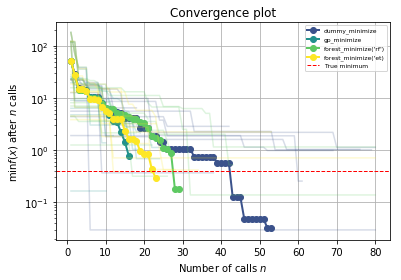
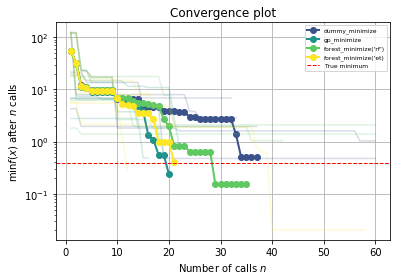
Pushing the docs for revision for branch: master, commit df2194d16e92cd6cf822e9dc0583588505914403

diff --git a/notebooks/bayesian-optimization.html b/notebooks/bayesian-optimization.html
@@ -1275,13 +1275,13 @@ controlling the exploration-exploitation trade-off.
              n_restarts_optimizer=2, noise=0.010000000000000002,
              normalize_y=True, optimizer=&#39;fmin_l_bfgs_b&#39;,
              random_state=843828734)]
- random_state: &lt;mtrand.RandomState object at 0x7f1b10999af8&gt;
+ random_state: &lt;mtrand.RandomState object at 0x7f3856f71ab0&gt;
         space: Space([Real(low=-2.0, high=2.0, prior=uniform, transform=normalize)])
-        specs: {&#39;args&#39;: {&#39;n_jobs&#39;: 1, &#39;kappa&#39;: 1.96, &#39;xi&#39;: 0.01, &#39;n_restarts_optimizer&#39;: 5, &#39;n_points&#39;: 10000, &#39;callback&#39;: None, &#39;verbose&#39;: False, &#39;random_state&#39;: &lt;mtrand.RandomState object at 0x7f1b10999af8&gt;, &#39;y0&#39;: None, &#39;x0&#39;: None, &#39;acq_optimizer&#39;: &#39;auto&#39;, &#39;acq_func&#39;: &#39;EI&#39;, &#39;n_random_starts&#39;: 5, &#39;n_calls&#39;: 15, &#39;base_estimator&#39;: GaussianProcessRegressor(alpha=1e-10, copy_X_train=True,
+        specs: {&#39;args&#39;: {&#39;n_jobs&#39;: 1, &#39;kappa&#39;: 1.96, &#39;xi&#39;: 0.01, &#39;n_restarts_optimizer&#39;: 5, &#39;n_points&#39;: 10000, &#39;callback&#39;: None, &#39;verbose&#39;: False, &#39;random_state&#39;: &lt;mtrand.RandomState object at 0x7f3856f71ab0&gt;, &#39;y0&#39;: None, &#39;x0&#39;: None, &#39;acq_optimizer&#39;: &#39;auto&#39;, &#39;acq_func&#39;: &#39;EI&#39;, &#39;n_random_starts&#39;: 5, &#39;n_calls&#39;: 15, &#39;base_estimator&#39;: GaussianProcessRegressor(alpha=1e-10, copy_X_train=True,
              kernel=1**2 * Matern(length_scale=1, nu=2.5),
              n_restarts_optimizer=2, noise=0.010000000000000002,
              normalize_y=True, optimizer=&#39;fmin_l_bfgs_b&#39;,
-             random_state=843828734), &#39;dimensions&#39;: Space([Real(low=-2.0, high=2.0, prior=uniform, transform=normalize)]), &#39;func&#39;: &lt;function f at 0x7f1b1d778ea0&gt;}, &#39;function&#39;: &#39;base_minimize&#39;}
+             random_state=843828734), &#39;dimensions&#39;: Space([Real(low=-2.0, high=2.0, prior=uniform, transform=normalize)]), &#39;func&#39;: &lt;function f at 0x7f3863d50ea0&gt;}, &#39;function&#39;: &#39;base_minimize&#39;}
             x: [-0.2572822321543613]
       x_iters: [[0.85182128209290919], [-0.28611629525269677], [0.76353942010744724], [0.87660124061909261], [-0.035524266269610472], [-0.30626086081540094], [-0.2572822321543613], [-0.22378966562926261], [1.0553495096977938], [-0.25562401679960356], [-0.52442654243976894], [-1.9992867763849413], [1.999866281741757], [-1.2339044799440428], [0.45960222721663557]]
 </pre></div>

diff --git a/notebooks/strategy-comparison.html b/notebooks/strategy-comparison.html
@@ -1130,7 +1130,7 @@ table {
 </pre></div>
 
 
-<div class="codehilite"><pre><span></span>&lt;matplotlib.figure.Figure at 0x7fdd477be668&gt;
+<div class="codehilite"><pre><span></span>&lt;matplotlib.figure.Figure at 0x7f5628627400&gt;
 </pre></div>
 
 
@@ -1199,11 +1199,11 @@ models. This makes the comparison more robust against models that get
 
 <span class="n">func</span> <span class="o">=</span> <span class="n">partial</span><span class="p">(</span><span class="n">branin</span><span class="p">,</span> <span class="n">noise_level</span><span class="o">=</span><span class="mf">2.0</span><span class="p">)</span>
 <span class="n">bounds</span> <span class="o">=</span> <span class="p">[(</span><span class="o">-</span><span class="mf">5.0</span><span class="p">,</span> <span class="mf">10.0</span><span class="p">),</span> <span class="p">(</span><span class="mf">0.0</span><span class="p">,</span> <span class="mf">15.0</span><span class="p">)]</span>
-<span class="n">n_calls</span> <span class="o">=</span> <span class="mi">80</span>
+<span class="n">n_calls</span> <span class="o">=</span> <span class="mi">60</span>
 </pre></div>
 
 
-<div class="codehilite"><pre><span></span><span class="k">def</span> <span class="nf">run</span><span class="p">(</span><span class="n">minimizer</span><span class="p">,</span> <span class="n">n_iter</span><span class="o">=</span><span class="mi">10</span><span class="p">):</span>
+<div class="codehilite"><pre><span></span><span class="k">def</span> <span class="nf">run</span><span class="p">(</span><span class="n">minimizer</span><span class="p">,</span> <span class="n">n_iter</span><span class="o">=</span><span class="mi">5</span><span class="p">):</span>
     <span class="k">return</span> <span class="p">[</span><span class="n">minimizer</span><span class="p">(</span><span class="n">func</span><span class="p">,</span> <span class="n">bounds</span><span class="p">,</span> <span class="n">n_calls</span><span class="o">=</span><span class="n">n_calls</span><span class="p">,</span> <span class="n">random_state</span><span class="o">=</span><span class="n">n</span><span class="p">)</span> 
             <span class="k">for</span> <span class="n">n</span> <span class="ow">in</span> <span class="nb">range</span><span class="p">(</span><span class="n">n_iter</span><span class="p">)]</span>
 

diff --git a/notebooks/sklearn-gridsearchcv-replacement.html b/notebooks/sklearn-gridsearchcv-replacement.html
@@ -1159,8 +1159,8 @@ table {
   FutureWarning)
 
 
-val. score: 0.988121752042
-test score: 0.988888888889
+val. score: 0.98292501856
+test score: 0.982222222222
 </pre></div>
 
 
@@ -1217,11 +1217,9 @@ test score: 0.988888888889
 
 <div class="codehilite"><pre><span></span>/home/ubuntu/miniconda3/envs/testenv/lib/python3.6/site-packages/sklearn/model_selection/_split.py:2026: FutureWarning: From version 0.21, test_size will always complement train_size unless both are specified.
   FutureWarning)
-/home/ubuntu/scikit-optimize/skopt/optimizer/optimizer.py:368: UserWarning: The objective has been evaluated at this point before.
-  warnings.warn(&quot;The objective has been evaluated &quot;
 
 
-val. score: 0.98292501856
+val. score: 0.985894580549
 test score: 0.982222222222
 </pre></div>
 
@@ -1263,18 +1261,18 @@ test score: 0.982222222222
 
 0 0.0844444444444
 1 0.0844444444444
-2 0.0844444444444
-3 0.0844444444444
-4 0.671111111111
-5 0.975555555556
-6 0.975555555556
-7 0.975555555556
+2 0.98
+3 0.98
+4 0.98
+5 0.98
+6 0.98
+7 0.98
 8 0.975555555556
 9 0.975555555556
-10 0.98
-11 0.98
-12 0.986666666667
-13 0.986666666667
+10 0.975555555556
+11 0.975555555556
+12 0.993333333333
+13 0.993333333333
 14 0.993333333333
 15 0.993333333333
 </pre></div>

diff --git a/notebooks/ask-and-tell.html b/notebooks/ask-and-tell.html
@@ -1130,7 +1130,7 @@ table {
 </pre></div>
 
 
-<div class="codehilite"><pre><span></span>&lt;matplotlib.figure.Figure at 0x7fd67469d7f0&gt;
+<div class="codehilite"><pre><span></span>&lt;matplotlib.figure.Figure at 0x7f8c08a6d748&gt;
 </pre></div>
 
 
@@ -1208,7 +1208,7 @@ optimizer:</p>
 <div class="codehilite"><pre><span></span>          fun: -0.032758350111535384
     func_vals: array([-0.03275835])
        models: []
- random_state: &lt;mtrand.RandomState object at 0x7fd66c13dc60&gt;
+ random_state: &lt;mtrand.RandomState object at 0x7f8c08154c18&gt;
         space: Space([Real(low=-2.0, high=2.0, prior=uniform, transform=identity)])
         specs: None
             x: [-1.7121321838148869]

diff --git a/notebooks/visualizing-results.html b/notebooks/visualizing-results.html
@@ -1130,7 +1130,7 @@ table {
 </pre></div>
 
 
-<div class="codehilite"><pre><span></span>&lt;matplotlib.figure.Figure at 0x7fc2c46127b8&gt;
+<div class="codehilite"><pre><span></span>&lt;matplotlib.figure.Figure at 0x7fa7084bc7b8&gt;
 </pre></div>
 
 

diff --git a/notebooks/bayesian-optimization.md b/notebooks/bayesian-optimization.md
@@ -176,13 +176,13 @@ print(res)
                  n_restarts_optimizer=2, noise=0.010000000000000002,
                  normalize_y=True, optimizer='fmin_l_bfgs_b',
                  random_state=843828734)]
-     random_state: <mtrand.RandomState object at 0x7f1b10999af8>
+     random_state: <mtrand.RandomState object at 0x7f3856f71ab0>
             space: Space([Real(low=-2.0, high=2.0, prior=uniform, transform=normalize)])
-            specs: {'args': {'n_jobs': 1, 'kappa': 1.96, 'xi': 0.01, 'n_restarts_optimizer': 5, 'n_points': 10000, 'callback': None, 'verbose': False, 'random_state': <mtrand.RandomState object at 0x7f1b10999af8>, 'y0': None, 'x0': None, 'acq_optimizer': 'auto', 'acq_func': 'EI', 'n_random_starts': 5, 'n_calls': 15, 'base_estimator': GaussianProcessRegressor(alpha=1e-10, copy_X_train=True,
+            specs: {'args': {'n_jobs': 1, 'kappa': 1.96, 'xi': 0.01, 'n_restarts_optimizer': 5, 'n_points': 10000, 'callback': None, 'verbose': False, 'random_state': <mtrand.RandomState object at 0x7f3856f71ab0>, 'y0': None, 'x0': None, 'acq_optimizer': 'auto', 'acq_func': 'EI', 'n_random_starts': 5, 'n_calls': 15, 'base_estimator': GaussianProcessRegressor(alpha=1e-10, copy_X_train=True,
                  kernel=1**2 * Matern(length_scale=1, nu=2.5),
                  n_restarts_optimizer=2, noise=0.010000000000000002,
                  normalize_y=True, optimizer='fmin_l_bfgs_b',
-                 random_state=843828734), 'dimensions': Space([Real(low=-2.0, high=2.0, prior=uniform, transform=normalize)]), 'func': <function f at 0x7f1b1d778ea0>}, 'function': 'base_minimize'}
+                 random_state=843828734), 'dimensions': Space([Real(low=-2.0, high=2.0, prior=uniform, transform=normalize)]), 'func': <function f at 0x7f3863d50ea0>}, 'function': 'base_minimize'}
                 x: [-0.2572822321543613]
           x_iters: [[0.85182128209290919], [-0.28611629525269677], [0.76353942010744724], [0.87660124061909261], [-0.035524266269610472], [-0.30626086081540094], [-0.2572822321543613], [-0.22378966562926261], [1.0553495096977938], [-0.25562401679960356], [-0.52442654243976894], [-1.9992867763849413], [1.999866281741757], [-1.2339044799440428], [0.45960222721663557]]
 

diff --git a/notebooks/sklearn-gridsearchcv-replacement.md b/notebooks/sklearn-gridsearchcv-replacement.md
@@ -50,8 +50,8 @@ print("test score: %s" % opt.score(X_test, y_test))
       FutureWarning)
 
 
-    val. score: 0.988121752042
-    test score: 0.988888888889
+    val. score: 0.98292501856
+    test score: 0.982222222222
 
 
 ## Advanced example 
@@ -110,11 +110,9 @@ print("test score: %s" % opt.score(X_test, y_test))
 
     /home/ubuntu/miniconda3/envs/testenv/lib/python3.6/site-packages/sklearn/model_selection/_split.py:2026: FutureWarning: From version 0.21, test_size will always complement train_size unless both are specified.
       FutureWarning)
-    /home/ubuntu/scikit-optimize/skopt/optimizer/optimizer.py:368: UserWarning: The objective has been evaluated at this point before.
-      warnings.warn("The objective has been evaluated "
 
 
-    val. score: 0.98292501856
+    val. score: 0.985894580549
     test score: 0.982222222222
 
 
@@ -159,18 +157,18 @@ for i in range(16):
 
     0 0.0844444444444
     1 0.0844444444444
-    2 0.0844444444444
-    3 0.0844444444444
-    4 0.671111111111
-    5 0.975555555556
-    6 0.975555555556
-    7 0.975555555556
+    2 0.98
+    3 0.98
+    4 0.98
+    5 0.98
+    6 0.98
+    7 0.98
     8 0.975555555556
     9 0.975555555556
-    10 0.98
-    11 0.98
-    12 0.986666666667
-    13 0.986666666667
+    10 0.975555555556
+    11 0.975555555556
+    12 0.993333333333
+    13 0.993333333333
     14 0.993333333333
     15 0.993333333333
 

diff --git a/notebooks/ask-and-tell.md b/notebooks/ask-and-tell.md
@@ -14,7 +14,7 @@ plt.set_cmap("viridis")
 ```
 
 
-    <matplotlib.figure.Figure at 0x7fd67469d7f0>
+    <matplotlib.figure.Figure at 0x7f8c08a6d748>
 
 
 Bayesian optimization is used to tune parameters for walking robots or other experiments
@@ -112,7 +112,7 @@ opt.tell(next_x, f_val)
               fun: -0.032758350111535384
         func_vals: array([-0.03275835])
            models: []
-     random_state: <mtrand.RandomState object at 0x7fd66c13dc60>
+     random_state: <mtrand.RandomState object at 0x7f8c08154c18>
             space: Space([Real(low=-2.0, high=2.0, prior=uniform, transform=identity)])
             specs: None
                 x: [-1.7121321838148869]

diff --git a/notebooks/strategy-comparison.md b/notebooks/strategy-comparison.md
@@ -14,7 +14,7 @@ plt.set_cmap("viridis")
 ```
 
 
-    <matplotlib.figure.Figure at 0x7fdd477be668>
+    <matplotlib.figure.Figure at 0x7f5628627400>
 
 
 Bayesian optimization or sequential model-based optimization uses a surrogate model
@@ -98,12 +98,12 @@ from skopt import gp_minimize, forest_minimize, dummy_minimize
 
 func = partial(branin, noise_level=2.0)
 bounds = [(-5.0, 10.0), (0.0, 15.0)]
-n_calls = 80
+n_calls = 60
 ```
 
 
 ```python
-def run(minimizer, n_iter=10):
+def run(minimizer, n_iter=5):
     return [minimizer(func, bounds, n_calls=n_calls, random_state=n) 
             for n in range(n_iter)]
 

diff --git a/notebooks/visualizing-results.md b/notebooks/visualizing-results.md
@@ -14,7 +14,7 @@ plt.set_cmap("viridis")
 ```
 
 
-    <matplotlib.figure.Figure at 0x7fc2c46127b8>
+    <matplotlib.figure.Figure at 0x7fa7084bc7b8>
 
 
 Bayesian optimization or sequential model-based optimization uses a surrogate model
